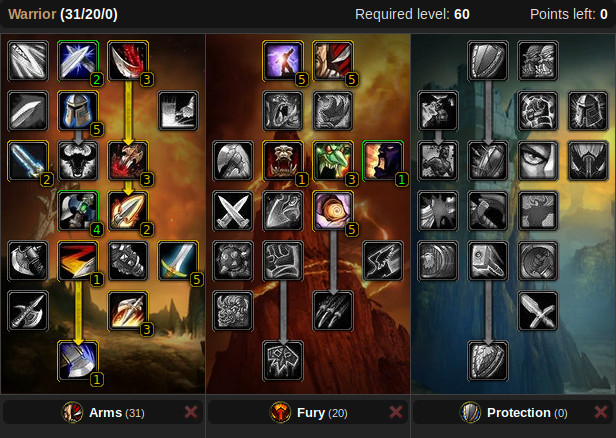
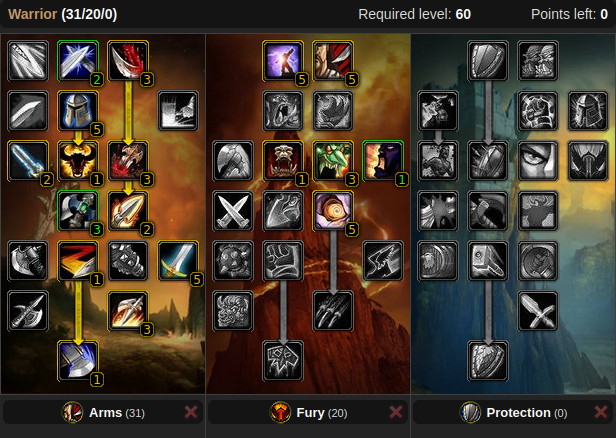
Update talents

diff --git a/talents.html b/talents.html
@@ -63,13 +63,6 @@
         <li><a href="https://classicdb.ch/?talent#L" target="_blank" rel="noopener noreferrer">ClassicDB Talent Calculator</a></li>
       </ul>
     </div>
-    <div class="card fluid error">
-      <p>Regarding "Anger Management" (11 point Arms talent):</p>
-      <ul>
-        <li>I could verify the behavior: it generates 1 rage every 3 seconds, even in combat. Thus making it a very potent talent that is very worth the point once you already took 5/5 Tactical Mastery.</li>
-        <li>The images are not yet updated, I will do this the future.</li>
-      </ul>
-    </div>
 
     <h2>PvP</h2>
 
@@ -79,7 +72,7 @@
     <img src="static/talents-pvp-arms.jpg" alt="31/20/0 Cookie Cutter Arms PvP" />
   </a>
   <ul>
-    <li>Unrivaled Arms PvP spec with Mortal Strike, Imp. Hamstring, Enrage and Piercing Howl</li>
+    <li>Unrivaled Arms BG PvP spec with Mortal Strike, Imp. Hamstring, Enrage and Piercing Howl</li>
     <li>Points in Blood Craze may also be put to Imp. Battle Shout</li>
     <li>Adjust weapon specialization as needed (Axe is good for starters, Sword proc is the best effect)</li>
     <li>Perfectly viable tank spec for all dungeon content</li>
@@ -88,13 +81,12 @@
 
 <div>
   <h3>Duelling Fury</h3>
-  <a href="https://classic.wowhead.com/talent-calc/warrior/02305020302-05050131025012251" target="_blank">
+  <a href="https://classicdb.ch/?talent#LV0LZE0zuMxRfoVbu" target="_blank">
     <img src="static/talents-pvp-fury.jpg" alt="9/31/11 Fury PvP baseline" />
   </a>
   <ul>
-    <li>Fury with Imp. Execute, Imp. Intercept, Imp. Berserker Rage. Works with both 2H and DW</li>
-    <li>Nice for stunning and finishing of wounded enemies, esp. in zergs</li>
-    <li>Generally inferior to the above "Cookie Cutter" spec, due to lacking MS</li>
+    <li>Fury spec for duels with Imp. Execute, Imp. Intercept, Imp. Berserker Rage, Last Stand. Works with both 2H and DW</li>
+    <li>2 Points in Tactical Mastery can also be moved to Flurry or Iron Will, same with Imp. Berserker Rage</li>
     <li>Perfectly viable tank spec for all dungeon content</li>
   </ul>
 </div>

diff --git a/snippet.talents.html b/snippet.talents.html
@@ -9,13 +9,6 @@
         <li><a href="https://classicdb.ch/?talent#L" target="_blank" rel="noopener noreferrer">ClassicDB Talent Calculator</a></li>
       </ul>
     </div>
-    <div class="card fluid error">
-      <p>Regarding "Anger Management" (11 point Arms talent):</p>
-      <ul>
-        <li>I could verify the behavior: it generates 1 rage every 3 seconds, even in combat. Thus making it a very potent talent that is very worth the point once you already took 5/5 Tactical Mastery.</li>
-        <li>The images are not yet updated, I will do this the future.</li>
-      </ul>
-    </div>
 
     <h2>PvP</h2>
 
@@ -25,7 +18,7 @@
     <img src="static/talents-pvp-arms.jpg" alt="31/20/0 Cookie Cutter Arms PvP" />
   </a>
   <ul>
-    <li>Unrivaled Arms PvP spec with Mortal Strike, Imp. Hamstring, Enrage and Piercing Howl</li>
+    <li>Unrivaled Arms BG PvP spec with Mortal Strike, Imp. Hamstring, Enrage and Piercing Howl</li>
     <li>Points in Blood Craze may also be put to Imp. Battle Shout</li>
     <li>Adjust weapon specialization as needed (Axe is good for starters, Sword proc is the best effect)</li>
     <li>Perfectly viable tank spec for all dungeon content</li>
@@ -34,13 +27,12 @@
 
 <div>
   <h3>Duelling Fury</h3>
-  <a href="https://classic.wowhead.com/talent-calc/warrior/02305020302-05050131025012251" target="_blank">
+  <a href="https://classicdb.ch/?talent#LV0LZE0zuMxRfoVbu" target="_blank">
     <img src="static/talents-pvp-fury.jpg" alt="9/31/11 Fury PvP baseline" />
   </a>
   <ul>
-    <li>Fury with Imp. Execute, Imp. Intercept, Imp. Berserker Rage. Works with both 2H and DW</li>
-    <li>Nice for stunning and finishing of wounded enemies, esp. in zergs</li>
-    <li>Generally inferior to the above "Cookie Cutter" spec, due to lacking MS</li>
+    <li>Fury spec for duels with Imp. Execute, Imp. Intercept, Imp. Berserker Rage, Last Stand. Works with both 2H and DW</li>
+    <li>2 Points in Tactical Mastery can also be moved to Flurry or Iron Will, same with Imp. Berserker Rage</li>
     <li>Perfectly viable tank spec for all dungeon content</li>
   </ul>
 </div>
